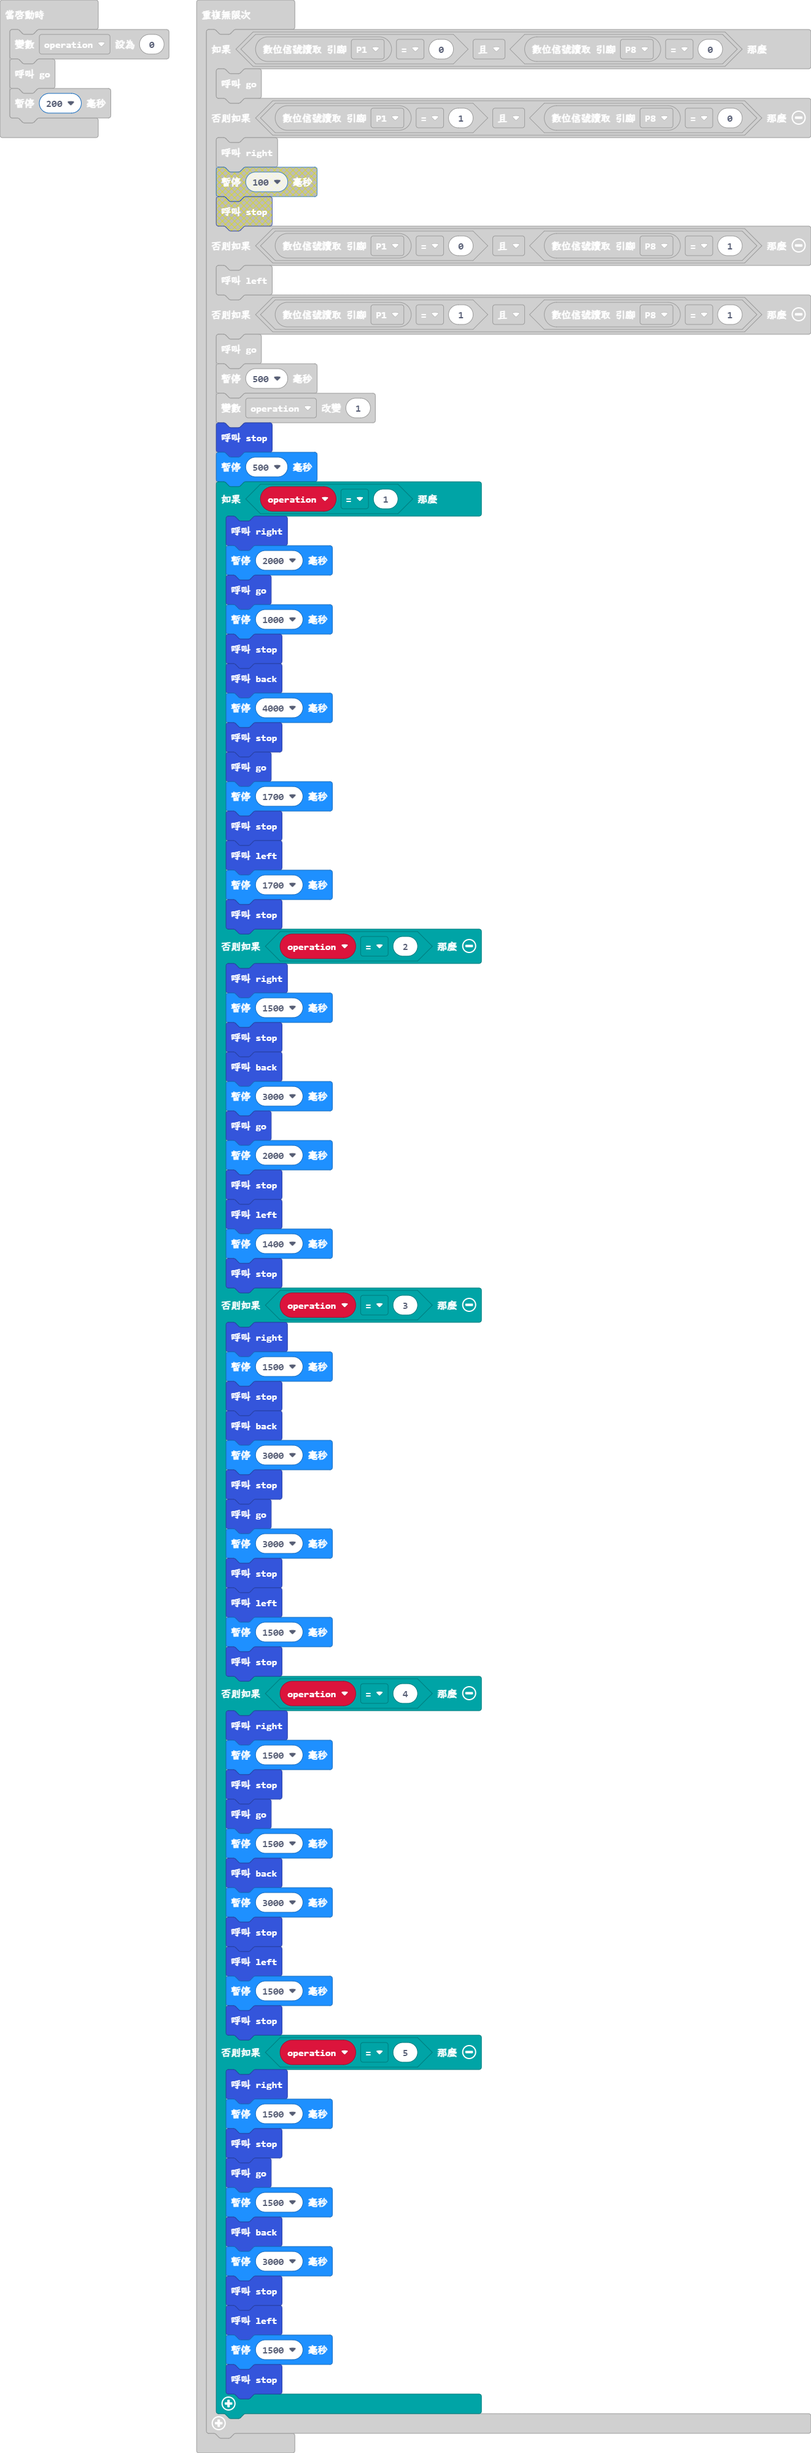
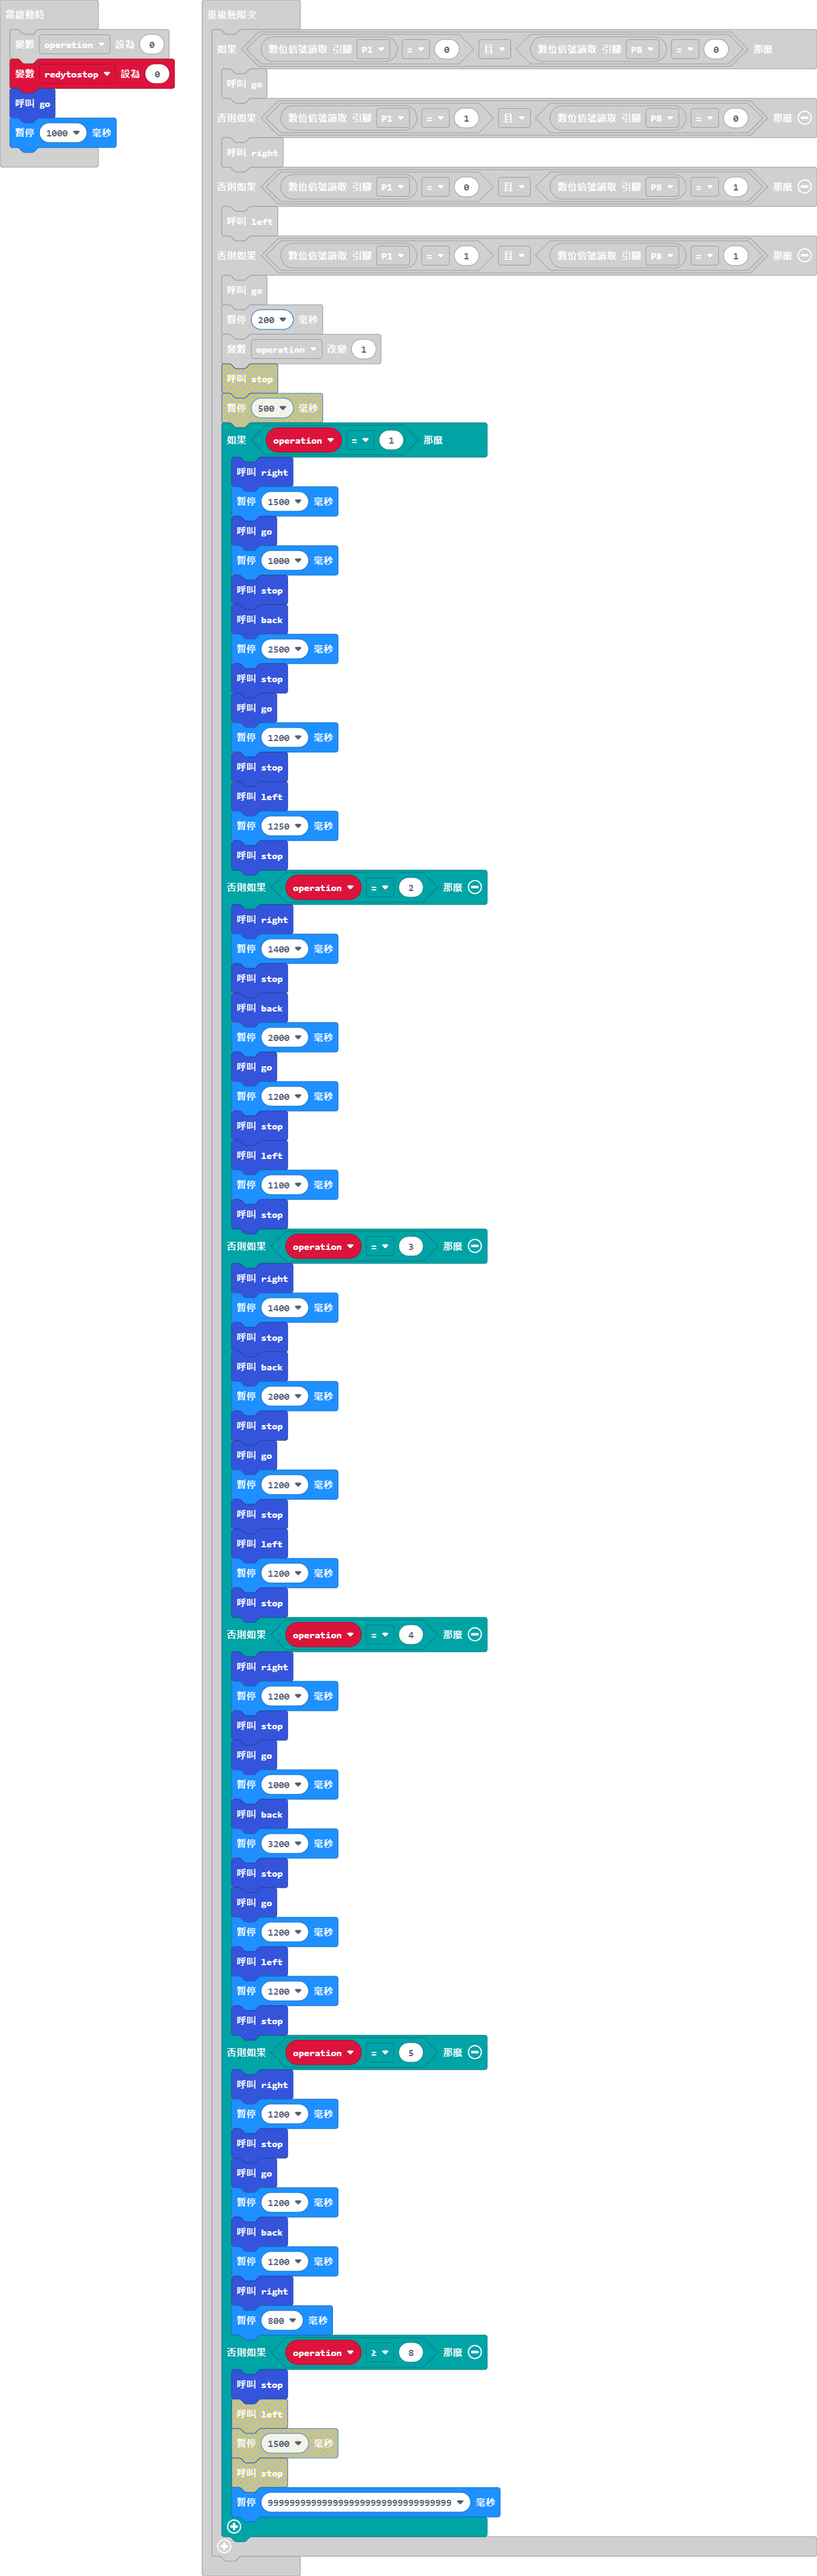
更新 main.blocks, main.ts

Changed region(s): [[0.0, 0.0, 1.0, 1.0]]

diff --git a/main.ts b/main.ts
@@ -80,8 +80,9 @@ function go () {
 }
 let pwm = 0
 let operation = 0
+let redytostop = 0
 go()
-basic.pause(200)
+basic.pause(1000)
 basic.forever(function () {
     if (pins.digitalReadPin(DigitalPin.P1) == 0 && pins.digitalReadPin(DigitalPin.P8) == 0) {
         go()
@@ -91,74 +92,75 @@ basic.forever(function () {
         left()
     } else if (pins.digitalReadPin(DigitalPin.P1) == 1 && pins.digitalReadPin(DigitalPin.P8) == 1) {
         go()
-        basic.pause(500)
+        basic.pause(200)
         operation += 1
-        stop()
-        basic.pause(500)
         if (operation == 1) {
             right()
-            basic.pause(2000)
+            basic.pause(1500)
             go()
             basic.pause(1000)
             stop()
             back()
-            basic.pause(4000)
+            basic.pause(2500)
             stop()
             go()
-            basic.pause(1700)
+            basic.pause(1200)
             stop()
             left()
-            basic.pause(1700)
+            basic.pause(1250)
             stop()
         } else if (operation == 2) {
             right()
-            basic.pause(1500)
+            basic.pause(1400)
             stop()
             back()
-            basic.pause(3000)
-            go()
             basic.pause(2000)
+            go()
+            basic.pause(1200)
             stop()
             left()
-            basic.pause(1400)
+            basic.pause(1100)
             stop()
         } else if (operation == 3) {
             right()
-            basic.pause(1500)
+            basic.pause(1400)
             stop()
             back()
-            basic.pause(3000)
+            basic.pause(2000)
             stop()
             go()
-            basic.pause(3000)
+            basic.pause(1200)
             stop()
             left()
-            basic.pause(1500)
+            basic.pause(1200)
             stop()
         } else if (operation == 4) {
             right()
-            basic.pause(1500)
+            basic.pause(1200)
             stop()
             go()
-            basic.pause(1500)
+            basic.pause(1000)
             back()
-            basic.pause(3000)
+            basic.pause(3200)
             stop()
+            go()
+            basic.pause(1200)
             left()
-            basic.pause(1500)
+            basic.pause(1200)
             stop()
         } else if (operation == 5) {
             right()
-            basic.pause(1500)
+            basic.pause(1200)
             stop()
             go()
-            basic.pause(1500)
+            basic.pause(1200)
             back()
-            basic.pause(3000)
+            basic.pause(1200)
+            right()
+            basic.pause(800)
+        } else if (operation >= 8) {
             stop()
-            left()
-            basic.pause(1500)
-            stop()
+            basic.pause(9999999999999999999999999999999999)
         }
     }
 })
